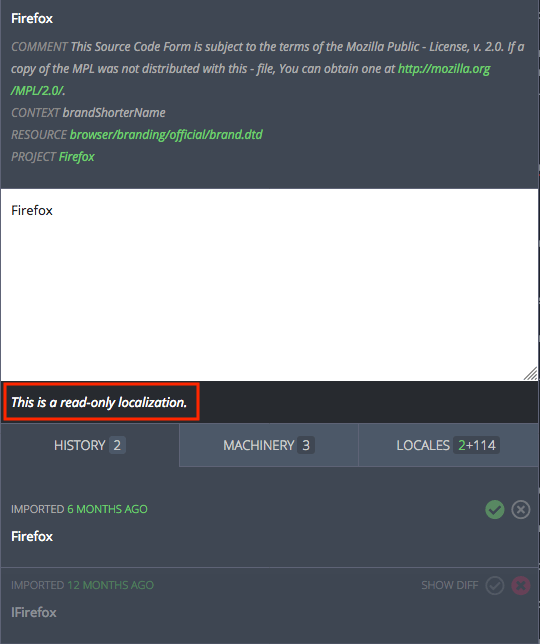
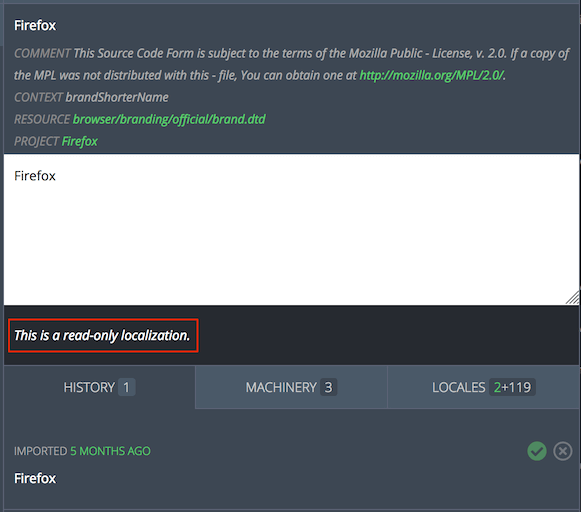
Bug 1397377 - Restore ability to delete translations (#139)

diff --git a/tools/pontoon/translate.md b/tools/pontoon/translate.md
@@ -4,7 +4,7 @@
 
 ## Translating strings
 
-Three actions can be performed on strings: submit a suggestion, review a suggestion, and submit a translation directly. Availability of these actions depends on user’s [role](users.md#user-roles).
+Four actions can be performed on strings: submit a suggestion, review a suggestion, delete a rejected suggestion, and submit a translation directly. Availability of these actions depends on user’s [role](users.md#user-roles).
 
 This document is simplified to demonstrate translation modes in Pontoon. Documentation includes specific pages for learning how to use Pontoon’s [interface](ui.md) and [translation resources](resources.md).
 
@@ -38,7 +38,7 @@ To review a suggestion, search for unreviewed strings in the sidebar.
 
 If the suggested string is an acceptable translation, either click on the `SAVE` button to the lower-right side of the editing space, or click on the checkmark icon to the right of the string (it becomes green when hovered). This will transform the suggested string into an approved translation, save the string to the database and to the localized file on the next sync operation.
 
-If the suggested string is **not** an acceptable translation, you can reject it by clicking the cross icon to the right of the string (it becomes red when hovered).
+If the suggested string is **not** an acceptable translation, you can reject it by clicking the cross icon to the right of the string (it becomes red when hovered). After rejecting a suggestion, it’s also possible to delete it completely by clicking the trashcan icon.
 
 Alternatively, you can provide a different suggestion: turn on `Make Suggestions` in settings. Once the `SUGGEST` button appears on the lower-right side of the editing space, edit the suggested string as appropriate and click `SUGGEST`. This will add your translation as a new suggested string in the Pontoon database but will not save the string in the localized file. To see the old and new suggestions, click on the history tab below the editing space. To learn about the history tab and other resources, check the [Translation resources documentation](resources.md).
 

diff --git a/tools/pontoon/resources.md b/tools/pontoon/resources.md
@@ -18,6 +18,7 @@ To the right of the entry, icons indicate the state of each element:
 * The green checkmark indicates that the translation has been approved.
 * If both icons are gray, translation has been suggested but not reviewed yet.
 * The red cross indicates that the translation has been rejected. The entire element will look opaque.
+* The trashcan, available only for rejected translations, can be used to completely delete a translation.
 
 If there are multiple suggestions for one string, it’s possible to use the `SHOW DIFF` link displayed on the right side of the suggestion: it will compare the selected suggestion to the first entry, highlighting in green all added text, in red all removed text. `HIDE DIFF` will display the original string.
 
